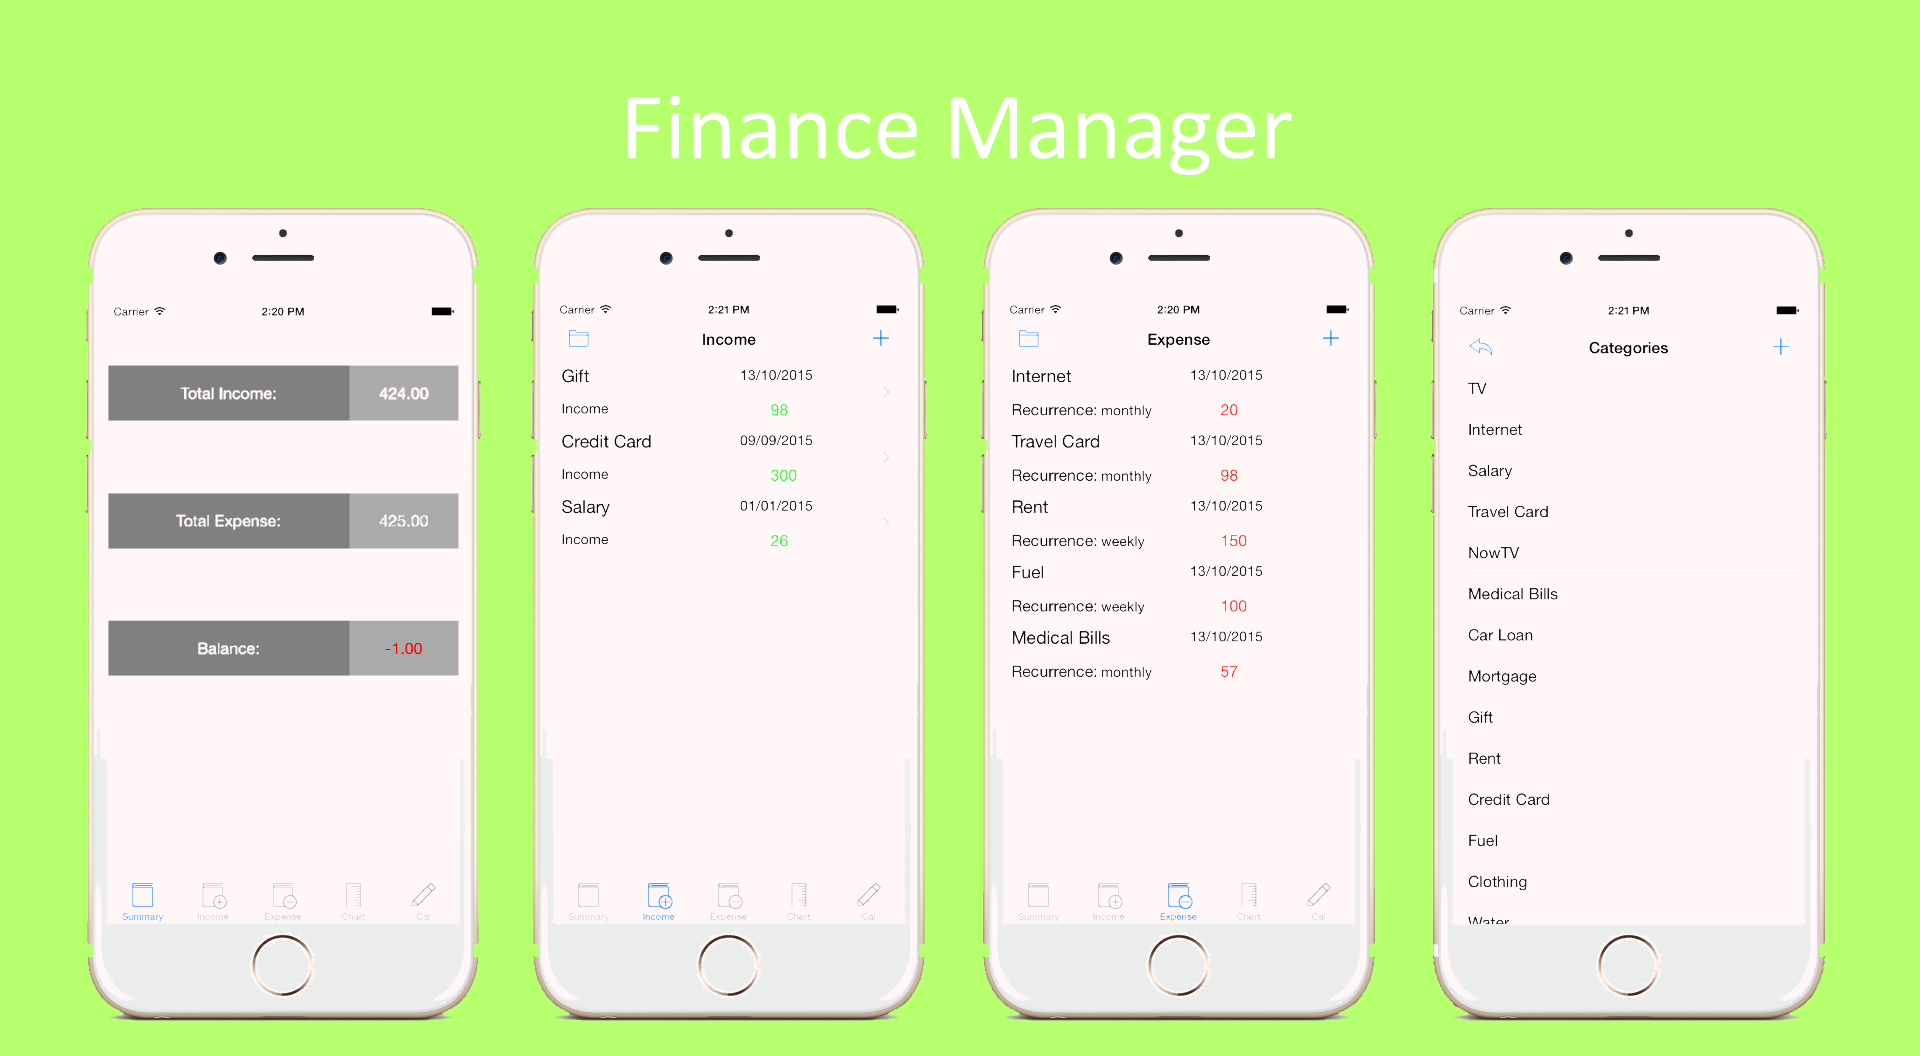
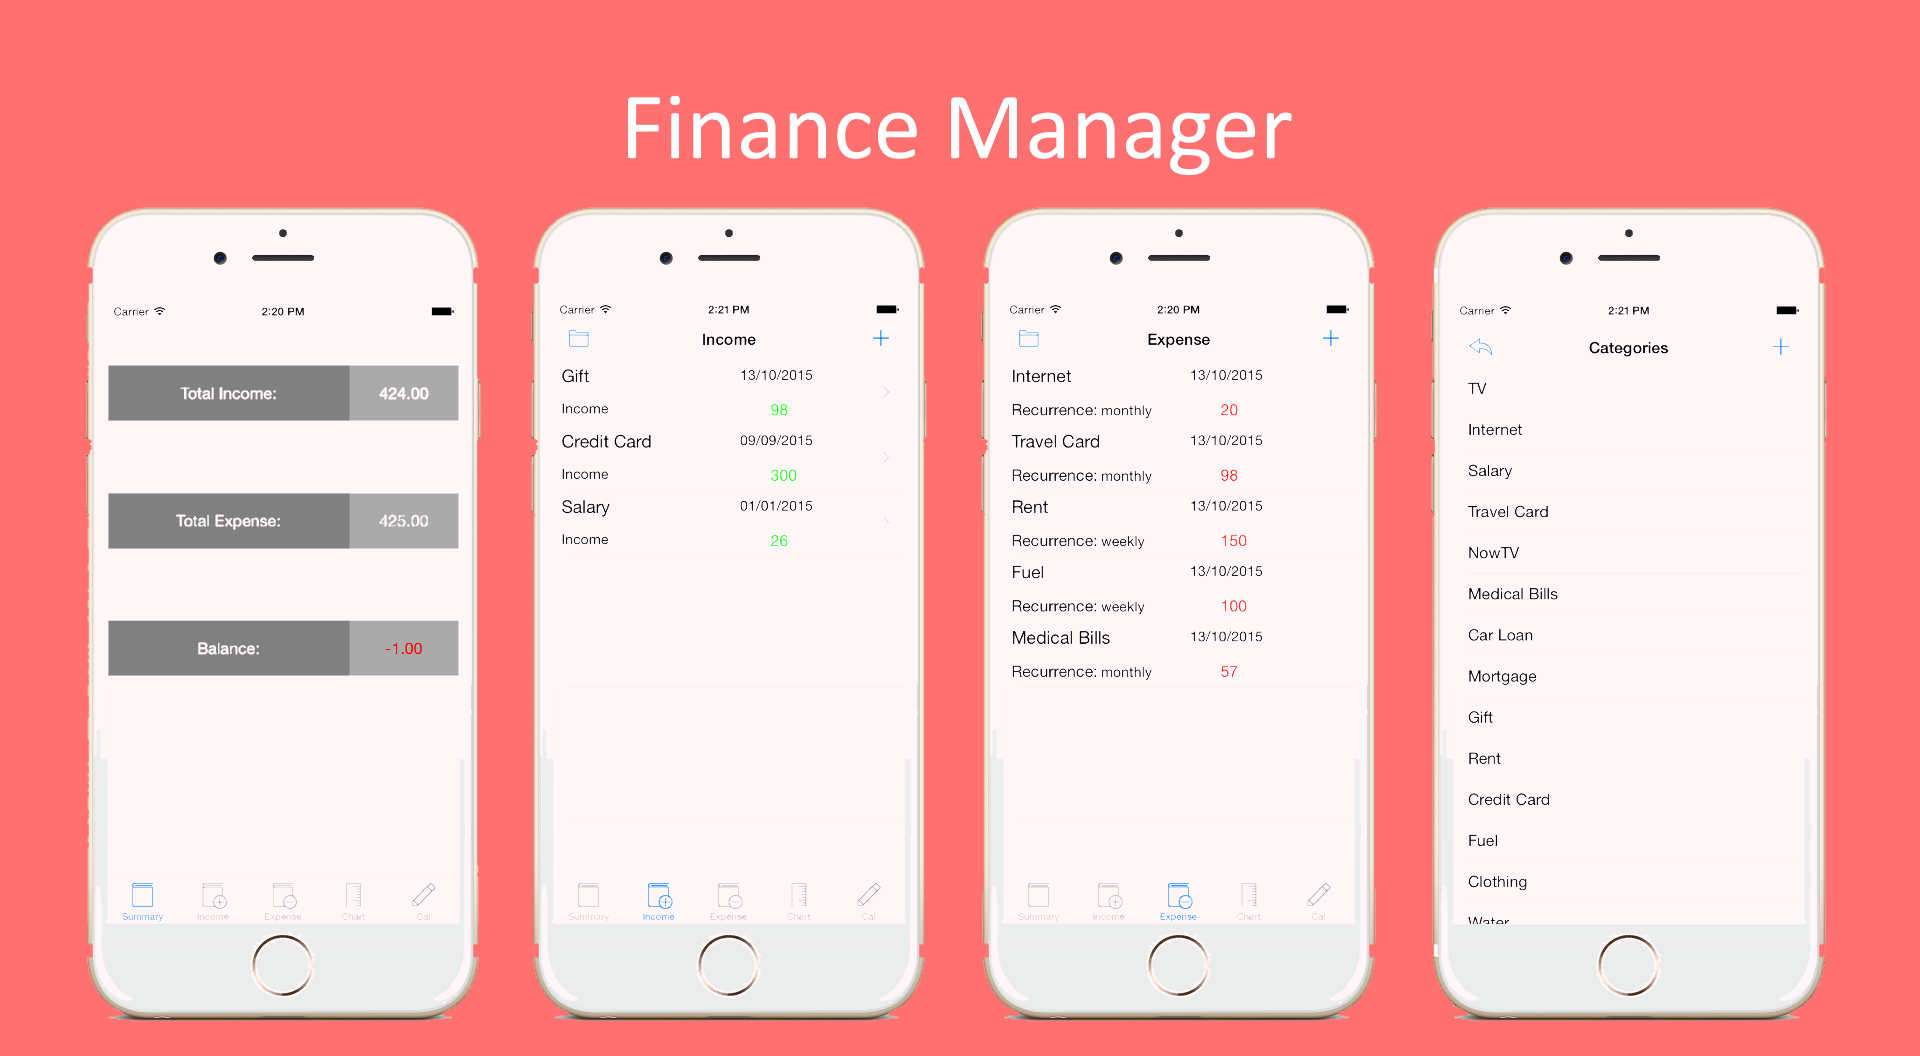
different colour, + link update

diff --git a/index.html b/index.html
@@ -185,7 +185,7 @@ nav: home
             <img src="/images/ScientificCalculator.png" alt="Cheddar"/>
             <p>Lorem ipsum dolor sit amet, consectetur adipiscing elit..</p>
             <div>
-                <a href="https://github.com/RahimBaraky/ScientificCalculator" class="btn btn-sm" title="Cheddar on GitHub"><i class="zmdi zmdi-github-box"></i> View on GitHub</a>
+                <a href="https://github.com/RahimBaraky/Scientific-Calculator" class="btn btn-sm" title="Cheddar on GitHub"><i class="zmdi zmdi-github-box"></i> View on GitHub</a>
             </div>
         </div>
     </div>
